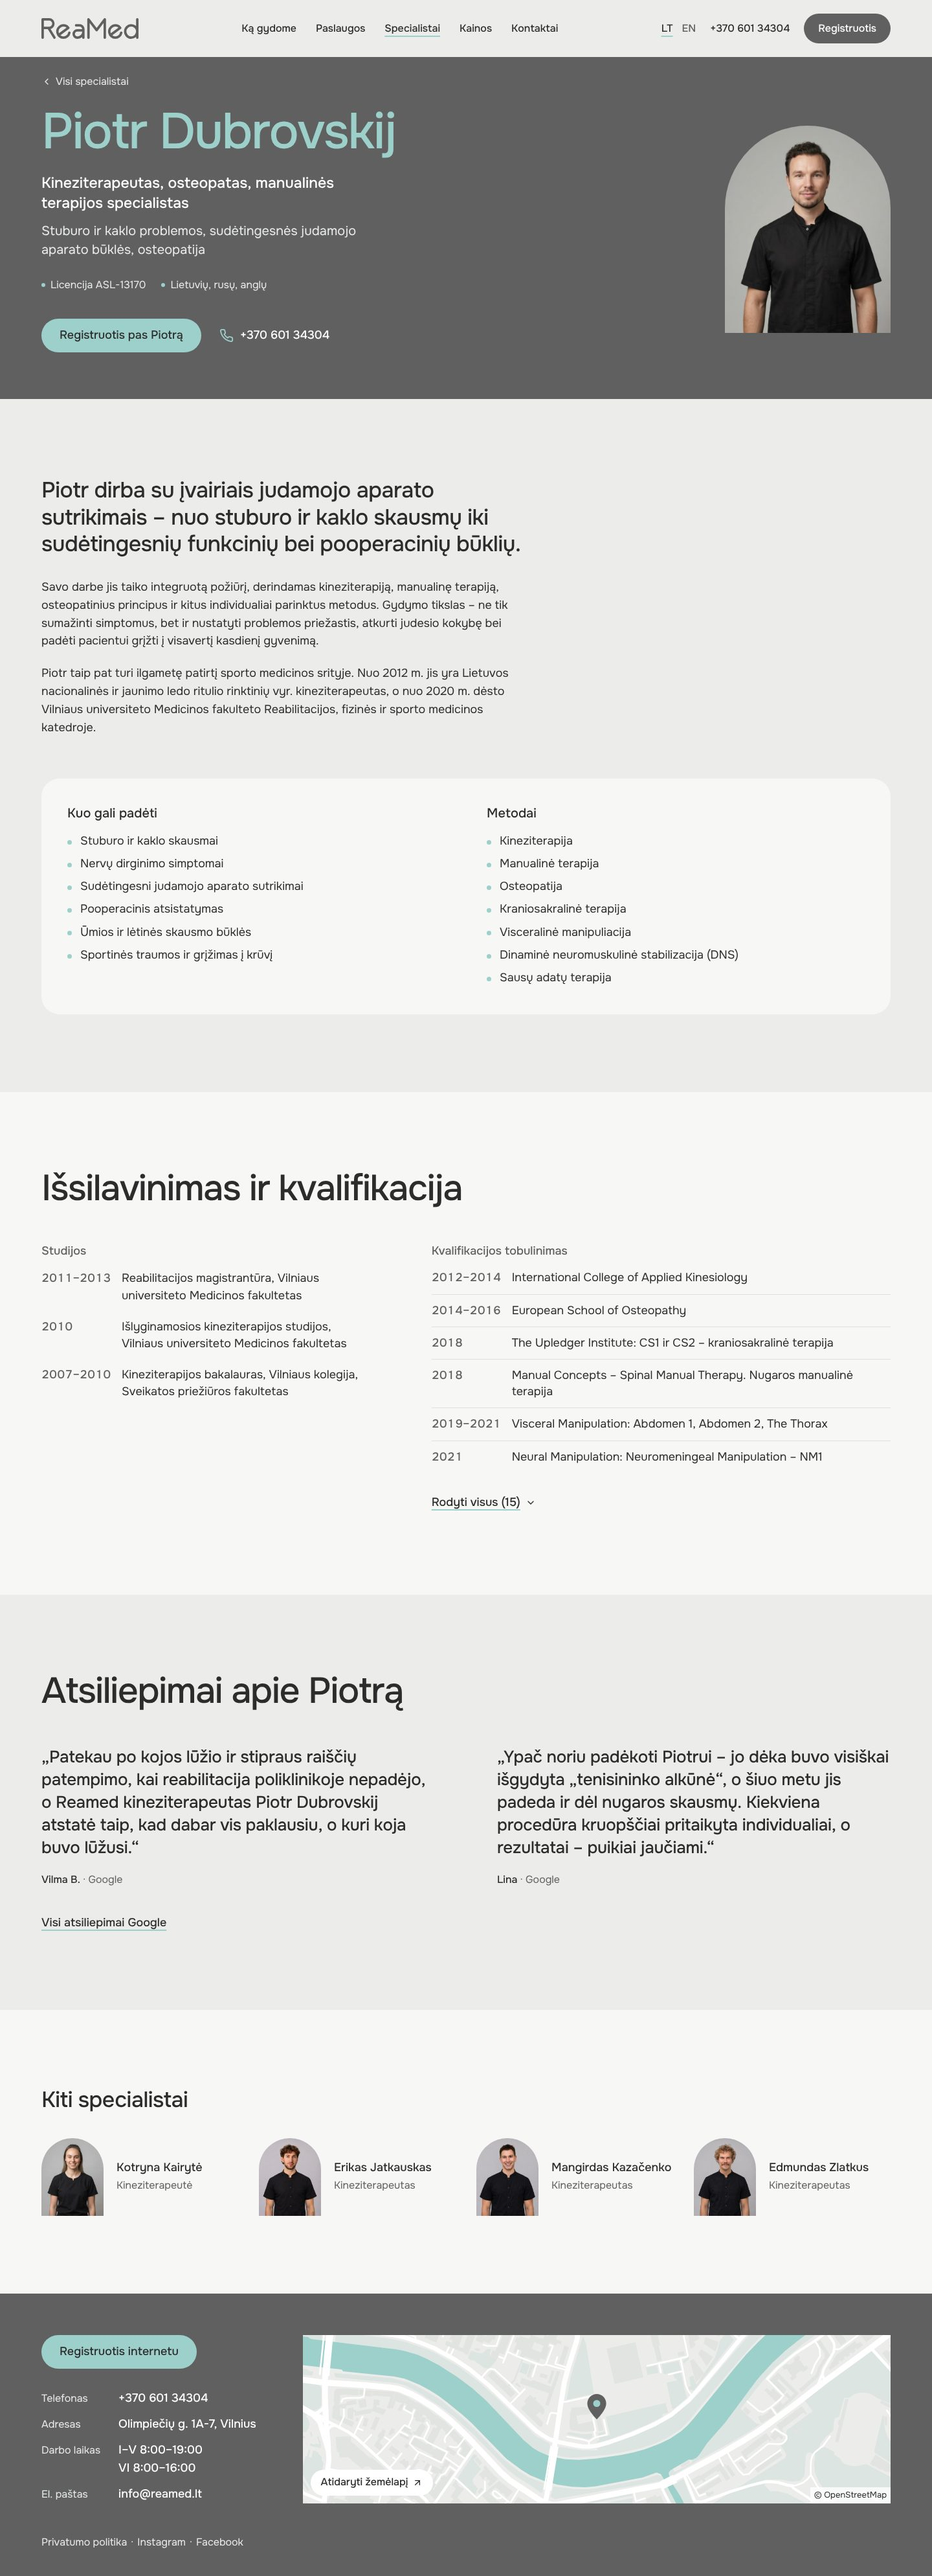
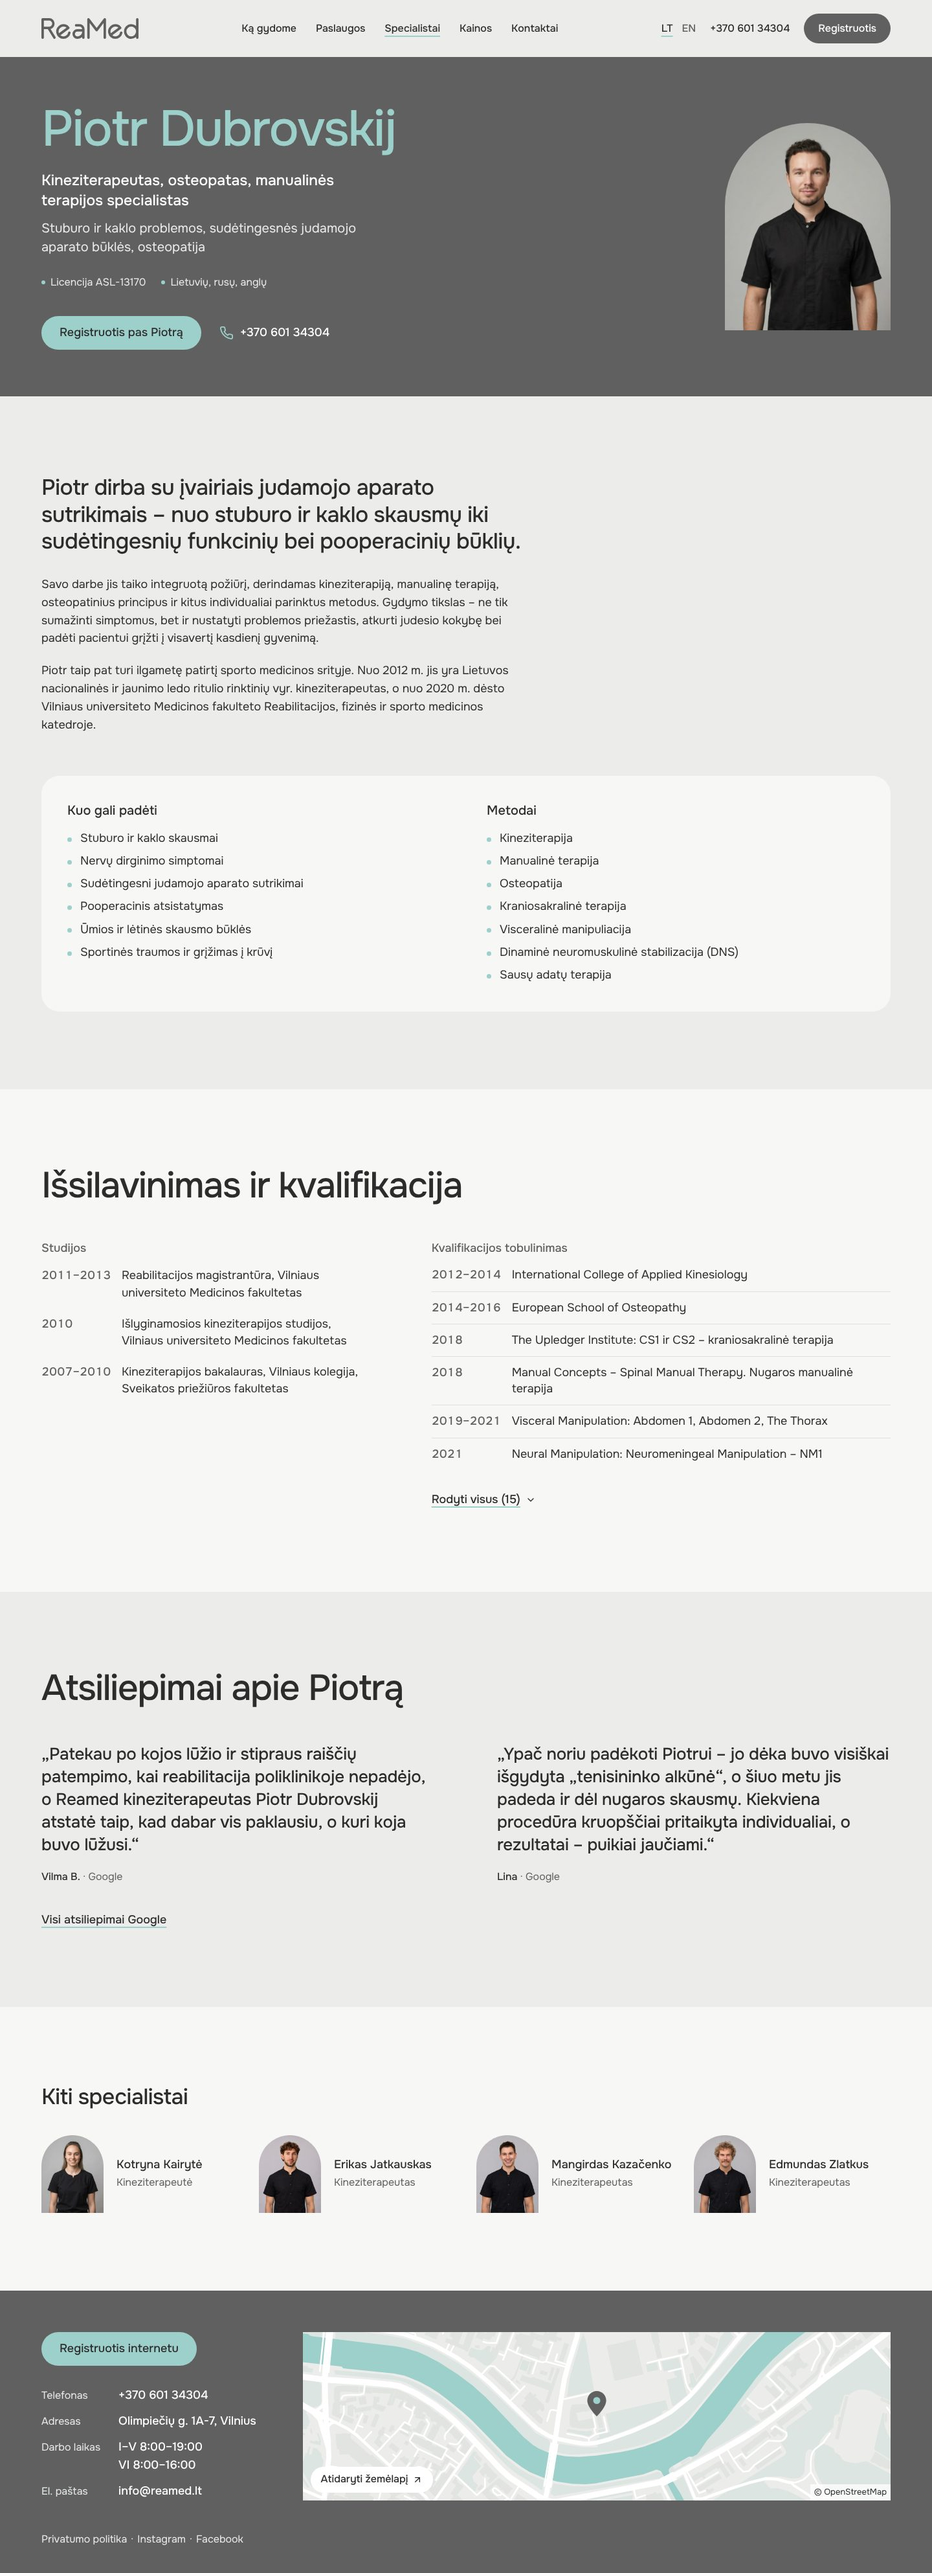
Design G: specialist page, phone hero centred, no breadcrumb
Claude-Session: https://claude.ai/code/session_01UrtBUkeTAzWfTtiySk2cwU

diff --git a/docs/design/redesign-g/specialistas.html b/docs/design/redesign-g/specialistas.html
@@ -44,7 +44,7 @@ h3.s{font-size:18px;font-weight:500;letter-spacing:0;line-height:1.4;color:var(-
 .crumb svg{width:16px;height:16px}
 
 /* hero */
-.hero{padding:16px 0 72px}
+.hero{padding:56px 0 72px}
 .hgrid{display:grid;grid-template-columns:minmax(0,1fr) 256px;column-gap:96px;align-items:center;margin-top:16px}
 .hero h1{color:var(--mint);font-size:clamp(46px,5.4vw,78px)}
 .hero .role{margin-top:24px;font-size:clamp(20px,1.6vw,24px);line-height:1.35;font-weight:500;max-width:30ch}
@@ -133,14 +133,18 @@ h2.t.sm{font-size:clamp(26px,2.4vw,34px);letter-spacing:-0.015em;line-height:1.1
 @media (max-width:1100px){.hgrid{grid-template-columns:minmax(0,1fr) 340px;column-gap:56px}.agrid{grid-template-columns:minmax(0,1fr) 360px;column-gap:56px}.egrid,.rgrid{column-gap:56px}}
 @media (max-width:820px){
 .sec{padding:72px 0}
-.hero{padding:8px 0 64px}
-.hgrid{display:flex;flex-direction:column-reverse;gap:28px;margin-top:12px}
-.hgrid .photo{width:min(100%,256px)}
-.hero h1{font-size:clamp(36px,10vw,46px)}
+.hero{padding:32px 0 56px}
+.hgrid{display:flex;flex-direction:column-reverse;gap:24px;margin-top:0;text-align:center}
+.hgrid .photo{width:min(100%,288px);margin:0 auto}
+.hero h1{font-size:30px;max-width:288px;margin:0 auto;text-wrap:balance}
+.hero .role,.hero .tag{margin-left:auto;margin-right:auto}
+.hero .facts{justify-content:center}
+.hero .cta{justify-content:center}
 .hero .role{font-size:20px;margin-top:16px}
 .hero .tag{font-size:18px}
 .hero .cta{margin-top:28px}
 .hero .cta .btn{width:100%}
+.hero .tel{justify-content:center}
 .agrid{gap:40px}
 .about .phrase{font-size:24px}
 .about .body{margin-top:24px}
@@ -160,7 +164,6 @@ h2.t.sm{font-size:clamp(26px,2.4vw,34px);letter-spacing:-0.015em;line-height:1.1
   <div class="right"><span class="lang"><b>LT</b><span>EN</span></span><a class="tel" href="#">+370 601 34304</a><a class="btn" href="#">Registruotis</a></div>
   <div class="mob"><span>LT <svg width="16" height="16" viewBox="0 0 24 24" fill="none" stroke="currentColor" stroke-width="2" stroke-linecap="round" stroke-linejoin="round" aria-hidden="true"><path d="m6 9 6 6 6-6"/></svg></span><a href="#" aria-label="Skambinti"><svg width="22" height="22" viewBox="0 0 24 24" fill="none" stroke="currentColor" stroke-width="2" stroke-linecap="round" stroke-linejoin="round" aria-hidden="true"><path d="M22 16.92v3a2 2 0 0 1-2.18 2 19.79 19.79 0 0 1-8.63-3.07 19.5 19.5 0 0 1-6-6 19.79 19.79 0 0 1-3.07-8.67A2 2 0 0 1 4.11 2h3a2 2 0 0 1 2 1.72 12.84 12.84 0 0 0 .7 2.81 2 2 0 0 1-.45 2.11L8.09 9.91a16 16 0 0 0 6 6l1.27-1.27a2 2 0 0 1 2.11-.45 12.84 12.84 0 0 0 2.81.7A2 2 0 0 1 22 16.92z"/></svg></a><a class="cal" href="#" aria-label="Registruotis vizitui"><svg width="22" height="22" viewBox="0 0 24 24" fill="none" stroke="currentColor" stroke-width="2" stroke-linecap="round" stroke-linejoin="round" aria-hidden="true"><rect width="18" height="18" x="3" y="4" rx="2"/><path d="M16 2v4M8 2v4M3 10h18M8 14h.01M12 14h.01M16 14h.01M8 18h.01M12 18h.01M16 18h.01"/></svg></a><span class="menu"><svg width="24" height="24" viewBox="0 0 24 24" fill="none" stroke="currentColor" stroke-width="2" stroke-linecap="round" stroke-linejoin="round" aria-hidden="true"><path d="M4 6h16M4 12h16M4 18h16"/></svg></span></div>
 </div></header><main><section class="sec-dark hero"><div class="wrap">
-  <a class="crumb" href="#"><svg width="16" height="16" viewBox="0 0 24 24" fill="none" stroke="currentColor" stroke-width="2" stroke-linecap="round" stroke-linejoin="round" aria-hidden="true"><path d="m15 18-6-6 6-6"/></svg> Visi specialistai</a>
   <div class="hgrid">
     <div>
       <h1>Piotr Dubrovskij</h1>

diff --git a/docs/design/redesign-g/README.md b/docs/design/redesign-g/README.md
@@ -208,13 +208,14 @@
 
 `/specialistai/[slug]`, один компонент для всех пяти. Сверху вниз:
 
-1. **Шапка** (graphite, `padding: 16px 0 72px`; телефон 8 / 64): ссылка «‹ Visi specialistai» (on-dark, 16 px, высота 44);
+1. **Шапка** (graphite, `padding: 56px 0 72px`; телефон 32 / 56), без ссылки «Visi specialistai» (убрана 05.11):
    сетка «текст | фото 256 px», колонки по центру по вертикали, между ними 96 px.
    h1 — имя мятой, `clamp(46px, 5.4vw, 78px)` (телефон `h1-m`); под ним роль белым 24 px/500 (не шире 30ch),
    строка «чем занимается» (tagline) on-dark 20 px, факты «● Licencija … ● Kalbos» 16 px on-dark с мятными точками,
    кнопки: `btn-mint` «Registruotis pas {vardą}» (accusative из `nameAccusative`) и ссылка-телефон белым с мятной иконкой.
    Фото — тот же файл и та же арка, что на главной (`rounded-t-full`, 4:5, `height:auto`).
-   Телефон: фото 256 px по левому краю, под ним текст, кнопка во всю ширину.
+   Телефон: всё по центру: фото 288 px, через 24 px имя 30 px не шире фото (`max-width: 288px; text-wrap: balance`),
+   роль, tagline, факты, кнопка во всю ширину, телефон под ней.
 2. **О специалисте** (ground, 120 px; телефон 72): первый абзац `about[0]` как фраза `clamp(26px, 2.4vw, 34px)`/500, не шире 34ch;
    остальные абзацы 18 px, не шире 62ch. Ниже панель paper, радиус 28 px, поля 40 px (телефон 24 px, 28/20):
    две колонки «Kuo gali padėti» (`conditions`) и «Metodai» (`expertise`), заголовки 20 px/500, пункты 18 px с мятными точками 7 px.
